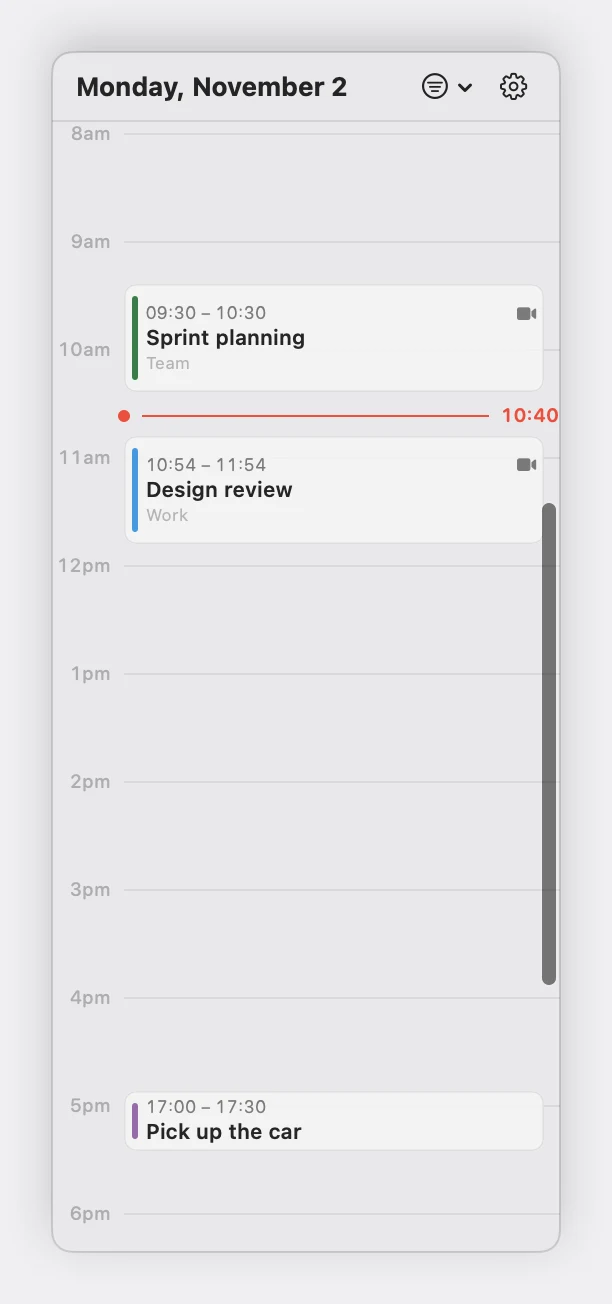
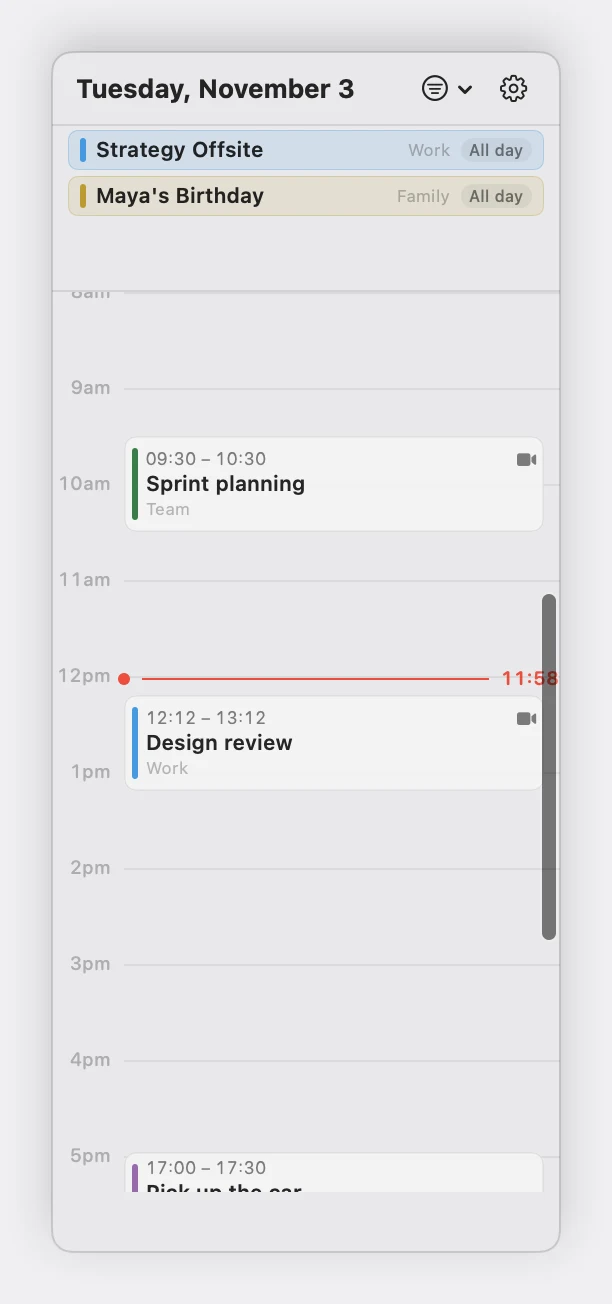
feat(website): update companion sidebar screenshots with all-day events

diff --git a/tools/shots/Sources/shots/main.swift b/tools/shots/Sources/shots/main.swift
@@ -524,7 +524,28 @@ let magicalSidebarTrayPayload: [String: Any] = [
         ["id": "team", "accountId": "work", "name": "Team",
          "colorHex": Fixtures.calendarTeam],
     ] as [[String: Any]],
-    "events": fixtures.map { event -> [String: Any] in
+    "events": (fixtures + [
+        Fixtures.Event(
+            id: "sb-allday-1",
+            title: "Strategy Offsite",
+            start: Calendar.current.startOfDay(for: now),
+            end: Calendar.current.date(byAdding: .day, value: 1, to: Calendar.current.startOfDay(for: now)) ?? now,
+            allDay: true,
+            colour: Fixtures.calendarWork,
+            calendar: "Work",
+            conference: nil
+        ),
+        Fixtures.Event(
+            id: "sb-allday-2",
+            title: "Maya's Birthday",
+            start: Calendar.current.startOfDay(for: now),
+            end: Calendar.current.date(byAdding: .day, value: 1, to: Calendar.current.startOfDay(for: now)) ?? now,
+            allDay: true,
+            colour: Fixtures.calendarFamily,
+            calendar: "Family",
+            conference: nil
+        ),
+    ]).map { event -> [String: Any] in
         let isWork = event.calendar == "Work" || event.calendar == "Team"
         let accountId = isWork ? "work" : "personal"
         var raw: [String: Any] = [
@@ -805,6 +826,13 @@ MainActor.assumeIsolated {
         let model = MagicalHelperLib.SidebarModel()
         model.trayModel.update(from: magicalSidebarTrayPayload)
         model.setViewMode(mode, anchor: now)
+        model.setScrollPosition(
+            hour: 8.5,
+            hourHeight: 48.0,
+            gridTop: 184.0,
+            gridHeight: 450.0,
+            cardTop: 64.0
+        )
 
         return MagicalHelperLib.SidebarRootView(model: model)
             .frame(width: 254, height: 600)

diff --git a/apps/magical/swift/Sources/MagicalHelperLib/SidebarView.swift b/apps/magical/swift/Sources/MagicalHelperLib/SidebarView.swift
@@ -422,19 +422,21 @@ private struct HeaderHeightPreferenceKey: PreferenceKey {
 }
 
 public struct DayFocusedEventsList: View {
+    @ObservedObject var sidebarModel: SidebarModel
     let events: [TrayEvent]
     let date: Date
     let headerHeight: CGFloat
     var onAction: ((_ action: String, _ value: String) -> Void)?
 
-    @ObservedObject private var sidebarModel = SidebarModel.shared
-
+    @MainActor
     public init(
+        model: SidebarModel? = nil,
         events: [TrayEvent],
         date: Date,
         headerHeight: CGFloat = 60.0,
         onAction: ((_ action: String, _ value: String) -> Void)? = nil
     ) {
+        sidebarModel = model ?? .shared
         self.events = events
         self.date = date
         self.headerHeight = headerHeight
@@ -532,6 +534,7 @@ private struct WeekCompanionContainerView: View {
             WeekScrubberView(model: model)
             Divider()
             DayFocusedEventsList(
+                model: model,
                 events: model.selectedDayEvents,
                 date: model.selectedDate,
                 headerHeight: headerHeight,
@@ -558,6 +561,7 @@ private struct DayCompanionContainerView: View {
             DayCompanionHeaderView(model: model)
             Divider()
             DayFocusedEventsList(
+                model: model,
                 events: model.selectedDayEvents,
                 date: model.selectedDate,
                 headerHeight: headerHeight,
